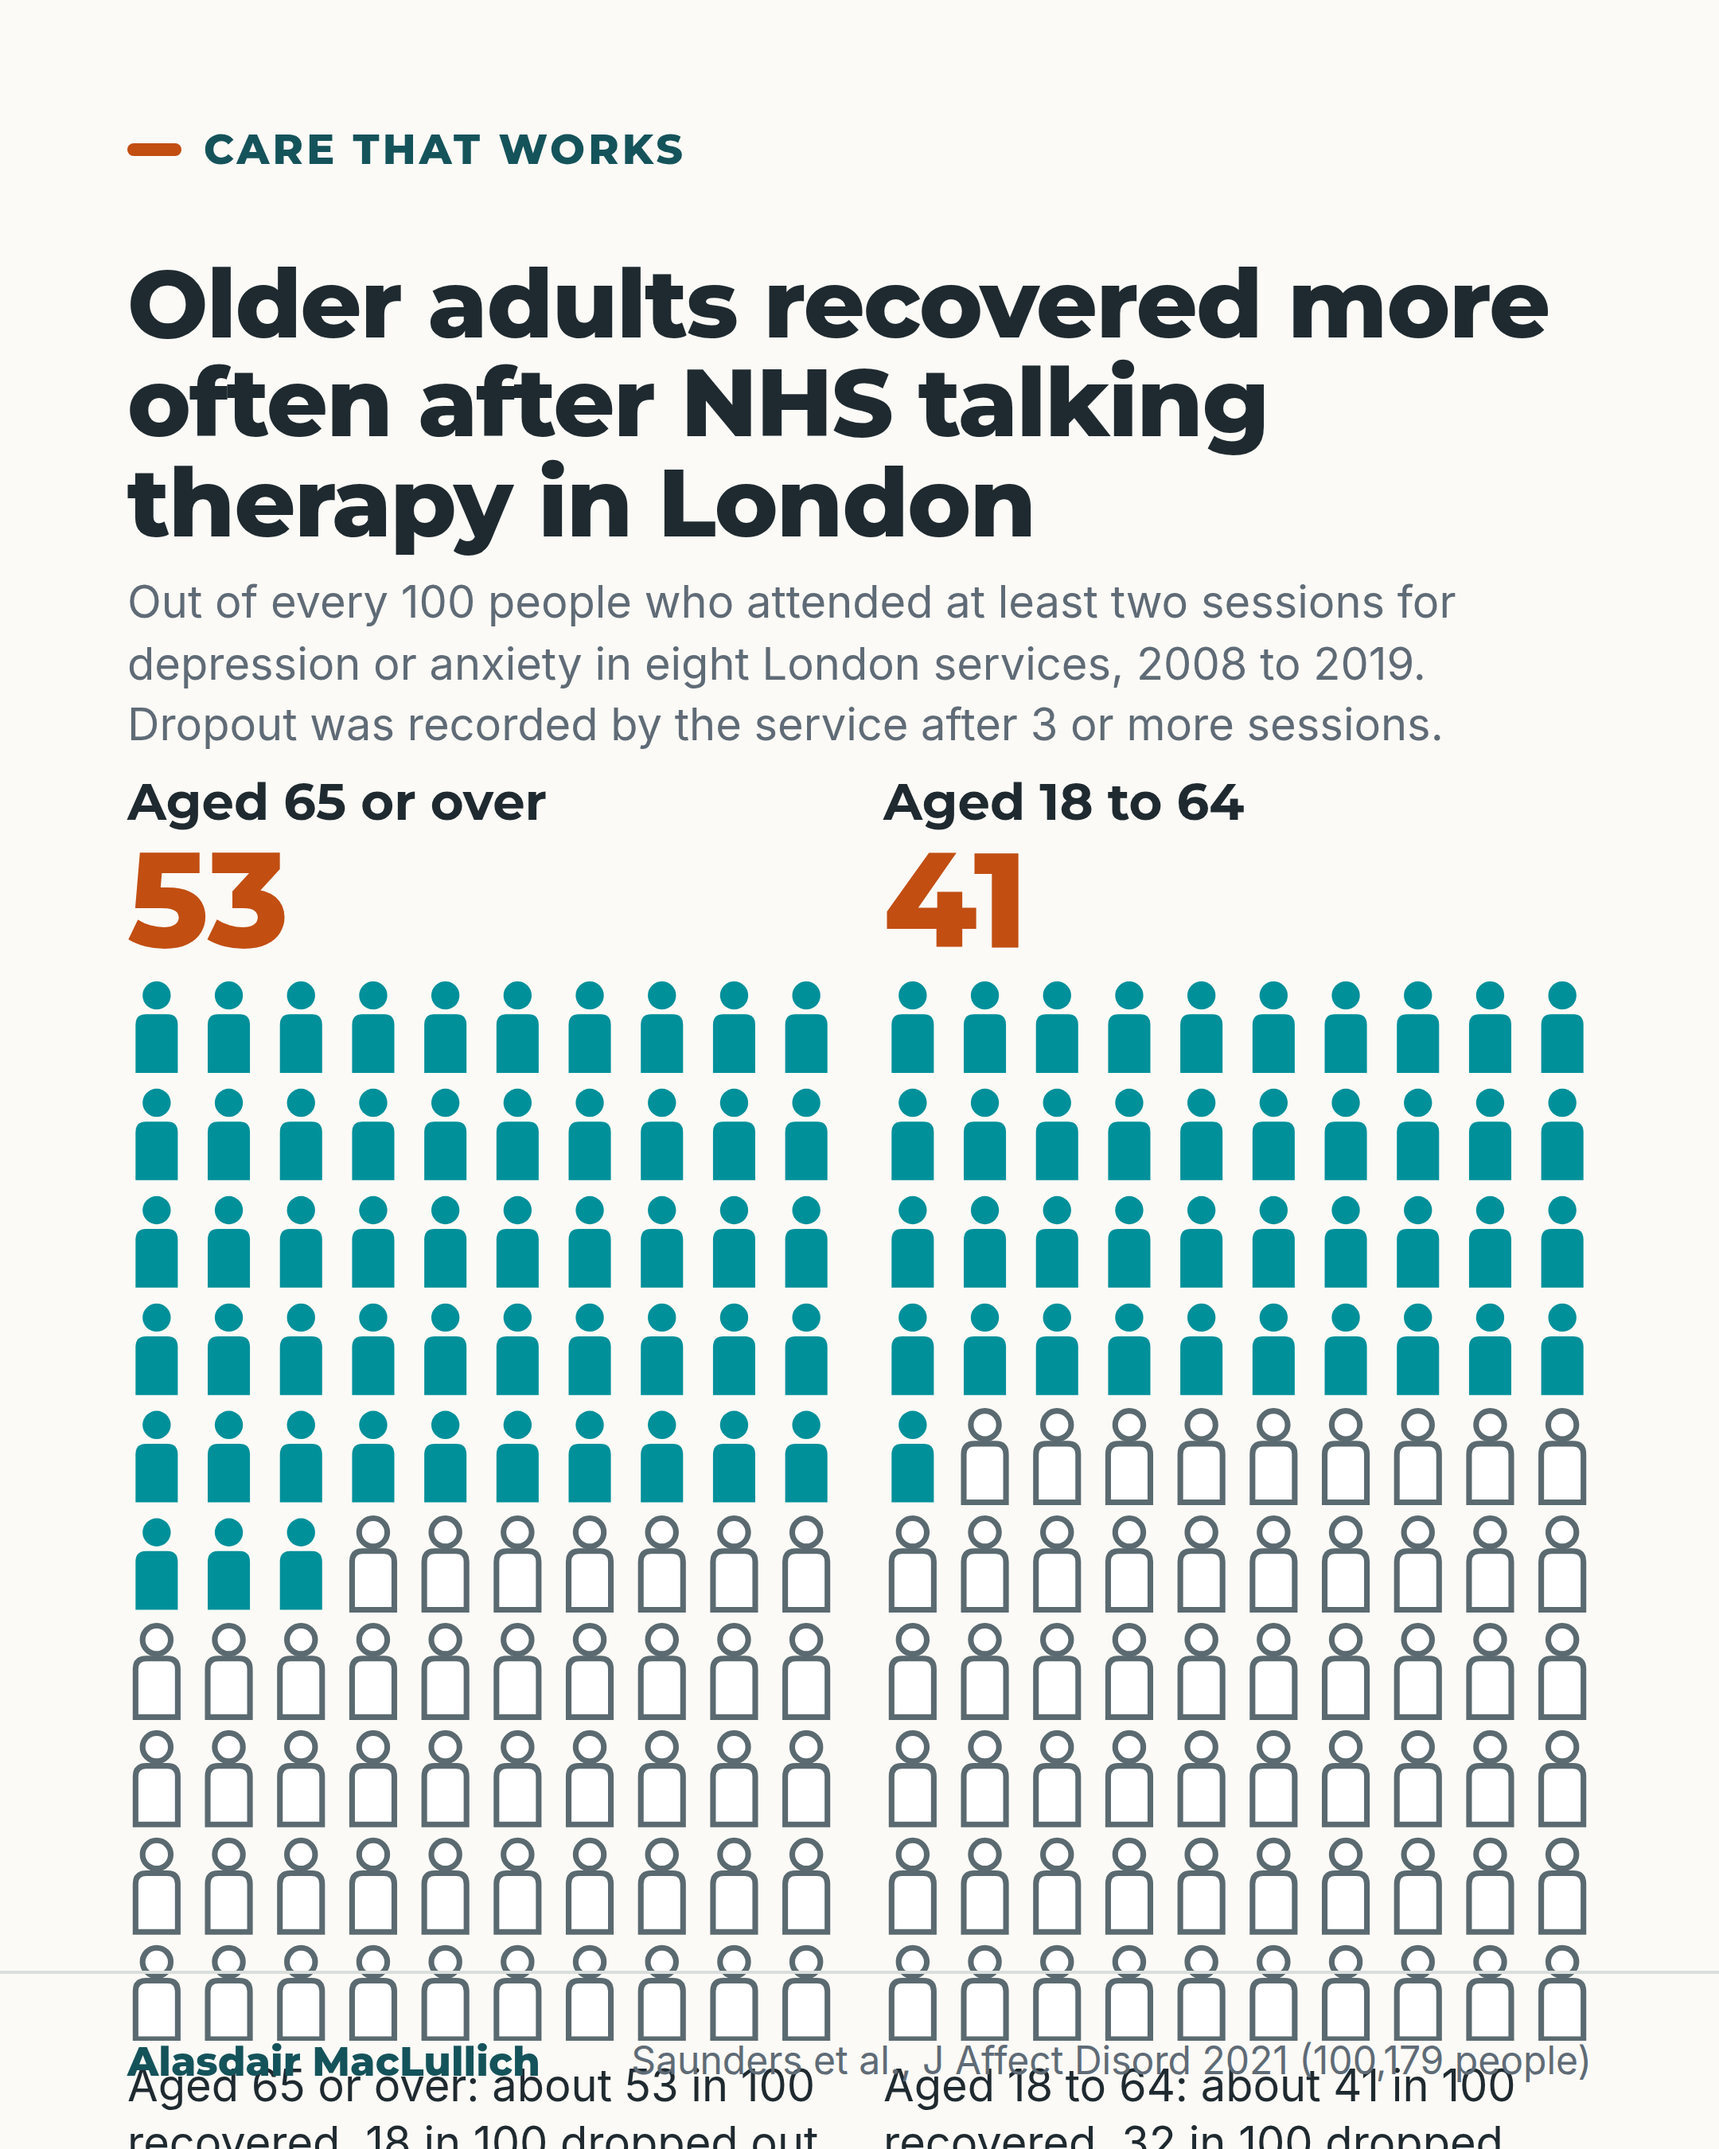
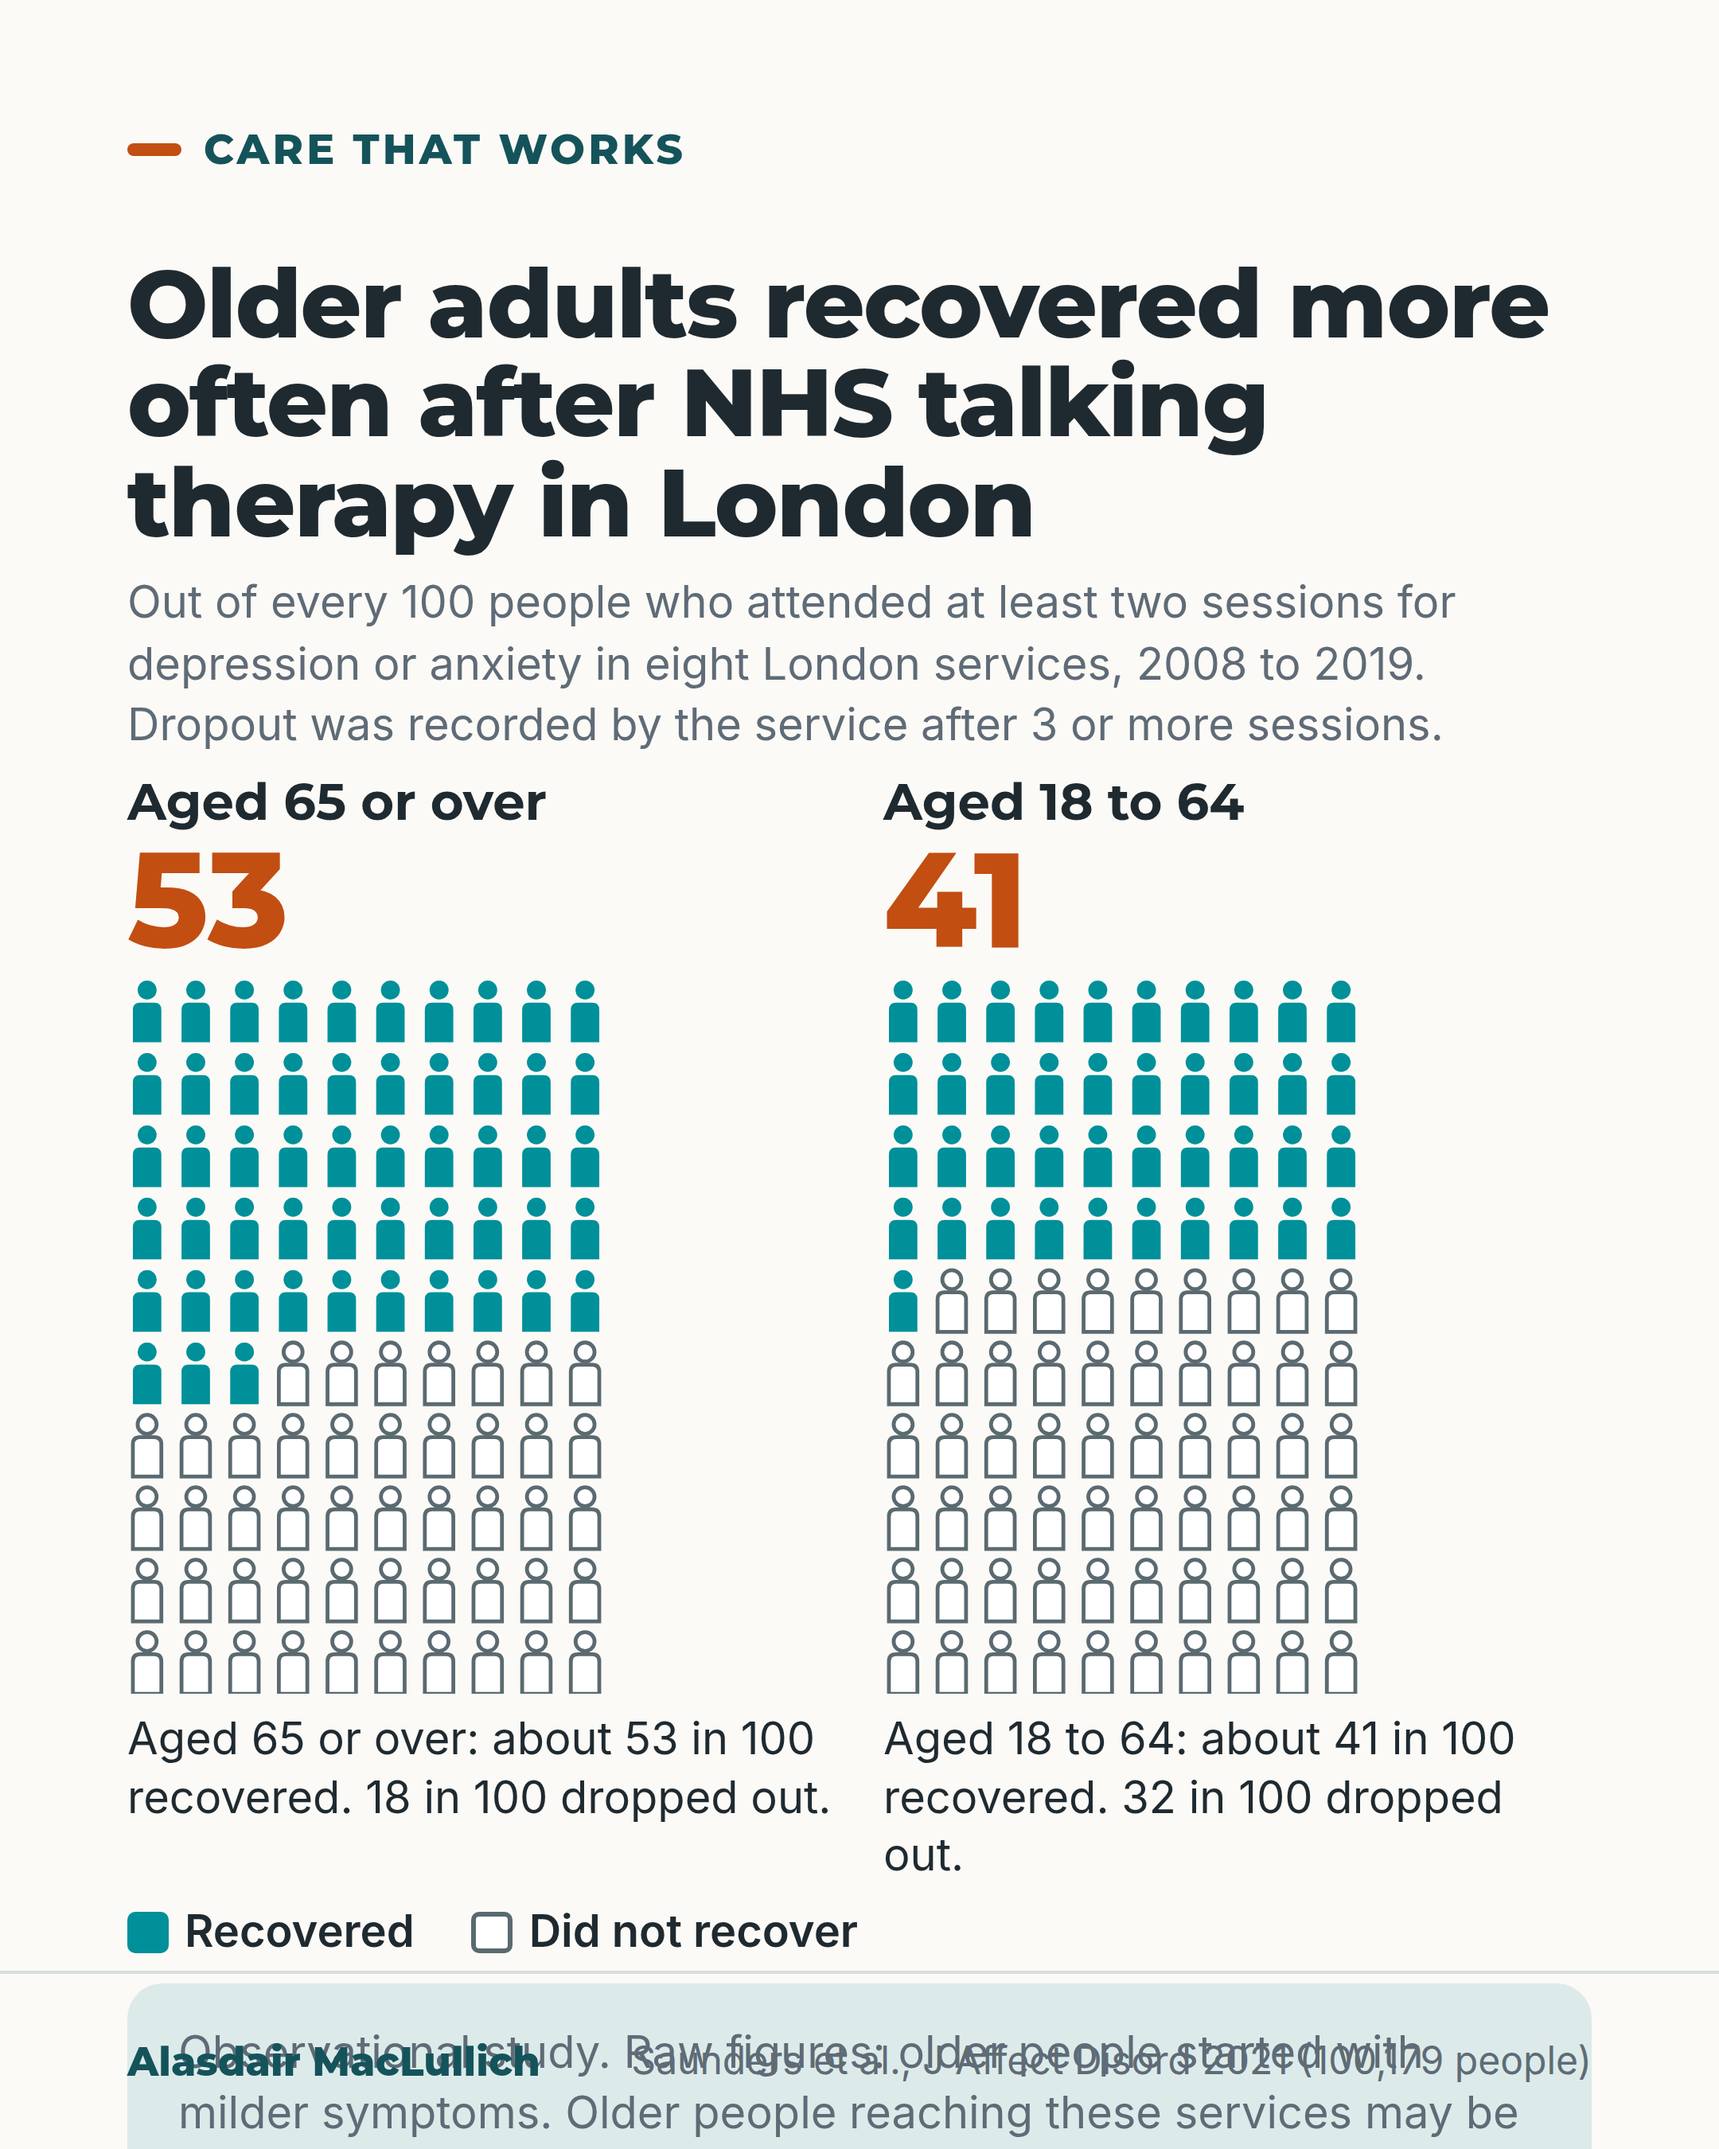
WIP

Changed region(s): [[0.062, 0.4356, 0.9306, 1.0]]

diff --git a/geriatrics-200_2026-09-25/visuals/src/C20-P06.html b/geriatrics-200_2026-09-25/visuals/src/C20-P06.html
@@ -3,12 +3,12 @@
 <script>window.__ready = false;</script>
 <script src="../design_system/chart.js"></script>
 <script src="../design_system/kit.js"></script>
-<style>.arrs{display:grid;grid-template-columns:1fr 1fr;gap:30px;margin-top:10px}.arrs h3{font-size:32px;margin:0}.arrs .n{font-family:Montserrat;font-weight:800;font-size:84px;color:var(--orange);line-height:1}.arrs svg{width:100%;height:auto;display:block;margin-top:8px}.arrs p{font-size:28px;line-height:1.3;margin-top:10px}.key{display:flex;gap:36px;font-size:28px;font-weight:600;margin-top:12px}.sw{display:inline-block;width:26px;height:26px;border-radius:5px;vertical-align:-4px;margin-right:10px}</style></head><body><div class="sheet">
+<style>.arrs{display:grid;grid-template-columns:1fr 1fr;gap:30px;margin-top:10px}.arrs h3{font-size:32px;margin:0}.arrs .n{font-family:Montserrat;font-weight:800;font-size:64px;color:var(--orange);line-height:1}.arrs svg{width:250px;height:auto;display:block;margin-top:8px}.arrs p{font-size:28px;line-height:1.3;margin-top:10px}.key{display:flex;gap:36px;font-size:28px;font-weight:600;margin-top:12px}.sw{display:inline-block;width:26px;height:26px;border-radius:5px;vertical-align:-4px;margin-right:10px}</style></head><body><div class="sheet">
 <div class="card" id="s1">
  <div class="topline"><span class="series">Care that works</span></div>
  <div class="content">
   <h1 class="s">Older adults recovered more often after NHS talking therapy in London</h1>
-  <p class="small" style="margin-top:12px">Out of every 100 people who attended at least two sessions for depression or anxiety in eight London services, 2008 to 2019. Dropout was recorded by the service after 3 or more sessions.</p>
+  <p class="small" style="margin-top:12px;font-size:26px">Out of every 100 people who attended at least two sessions for depression or anxiety in eight London services, 2008 to 2019. Dropout was recorded by the service after 3 or more sessions.</p>
   <div class="arrs">
    <div><h3>Aged 65 or over</h3><div class="n">53</div><div id="a1"></div><p>Aged 65 or over: about 53 in 100 recovered. 18 in 100 dropped out.</p></div>
    <div><h3>Aged 18 to 64</h3><div class="n">41</div><div id="a2"></div><p>Aged 18 to 64: about 41 in 100 recovered. 32 in 100 dropped out.</p></div>

diff --git a/geriatrics-200_2026-09-25/visuals/src/C20-P02.html b/geriatrics-200_2026-09-25/visuals/src/C20-P02.html
@@ -3,11 +3,11 @@
 <script>window.__ready = false;</script>
 <script src="../design_system/chart.js"></script>
 <script src="../design_system/kit.js"></script>
-<style>.hl{font-size:30px;font-weight:700;color:var(--teal);margin-top:26px}.panel p{font-size:28px;line-height:1.34;margin:0}.panel p+p{margin-top:14px}</style></head><body><div class="sheet">
+<style>.hl{font-size:30px;font-weight:700;color:var(--teal);margin-top:26px}.panel p{font-size:26px;line-height:1.34;margin:0}.panel p+p{margin-top:14px}</style></head><body><div class="sheet">
 <div class="card" id="s1">
  <div class="topline"><span class="series">Care that works</span></div>
  <div class="content">
-  <h1 class="m">Age-adjusted D-dimer: <em>more people aged 75+</em> were ruled out without a scan</h1>
+  <h1 class="s">Age-adjusted D-dimer: <em>more people aged 75+</em> were ruled out without a scan</h1>
   <p class="body" style="margin-top:18px">673 people aged 75 or over, suspected pulmonary embolism, clinical score not high</p>
   <div class="hl">Clot ruled out by D-dimer alone</div>
   <div id="bars" class="chart"></div>
@@ -18,6 +18,6 @@
 <div class="foot"><span class="author">Alasdair MacLullich</span><span class="src">Righini et al., JAMA 2014 (ADJUST-PE)</span></div>
 </div></div>
 <script>
-barChart("#bars",[{label:"Fixed cut-off 500 µg/L: 43 of 673 (6.4%)",value:6.4,display:"",colour:"empty"},{label:"Age-adjusted cut-off: 200 of 673 (29.7%)",value:29.7,display:"",colour:"a"}],{max:100,width:920,ticks:[0,25,50,75,100],tickFmt:t=>t+"%",gap:40,valueRoom:20});
+barChart("#bars",[{label:"Fixed cut-off 500 µg/L: 43 of 673 (6.4%)",value:6.4,display:"",colour:"empty"},{label:"Age-adjusted cut-off: 200 of 673 (29.7%)",value:29.7,display:"",colour:"a"}],{max:100,width:920,ticks:[0,25,50,75,100],tickFmt:t=>t+"%",gap:20,valueRoom:70});
 window.__ready=true;
 </script></body></html>
